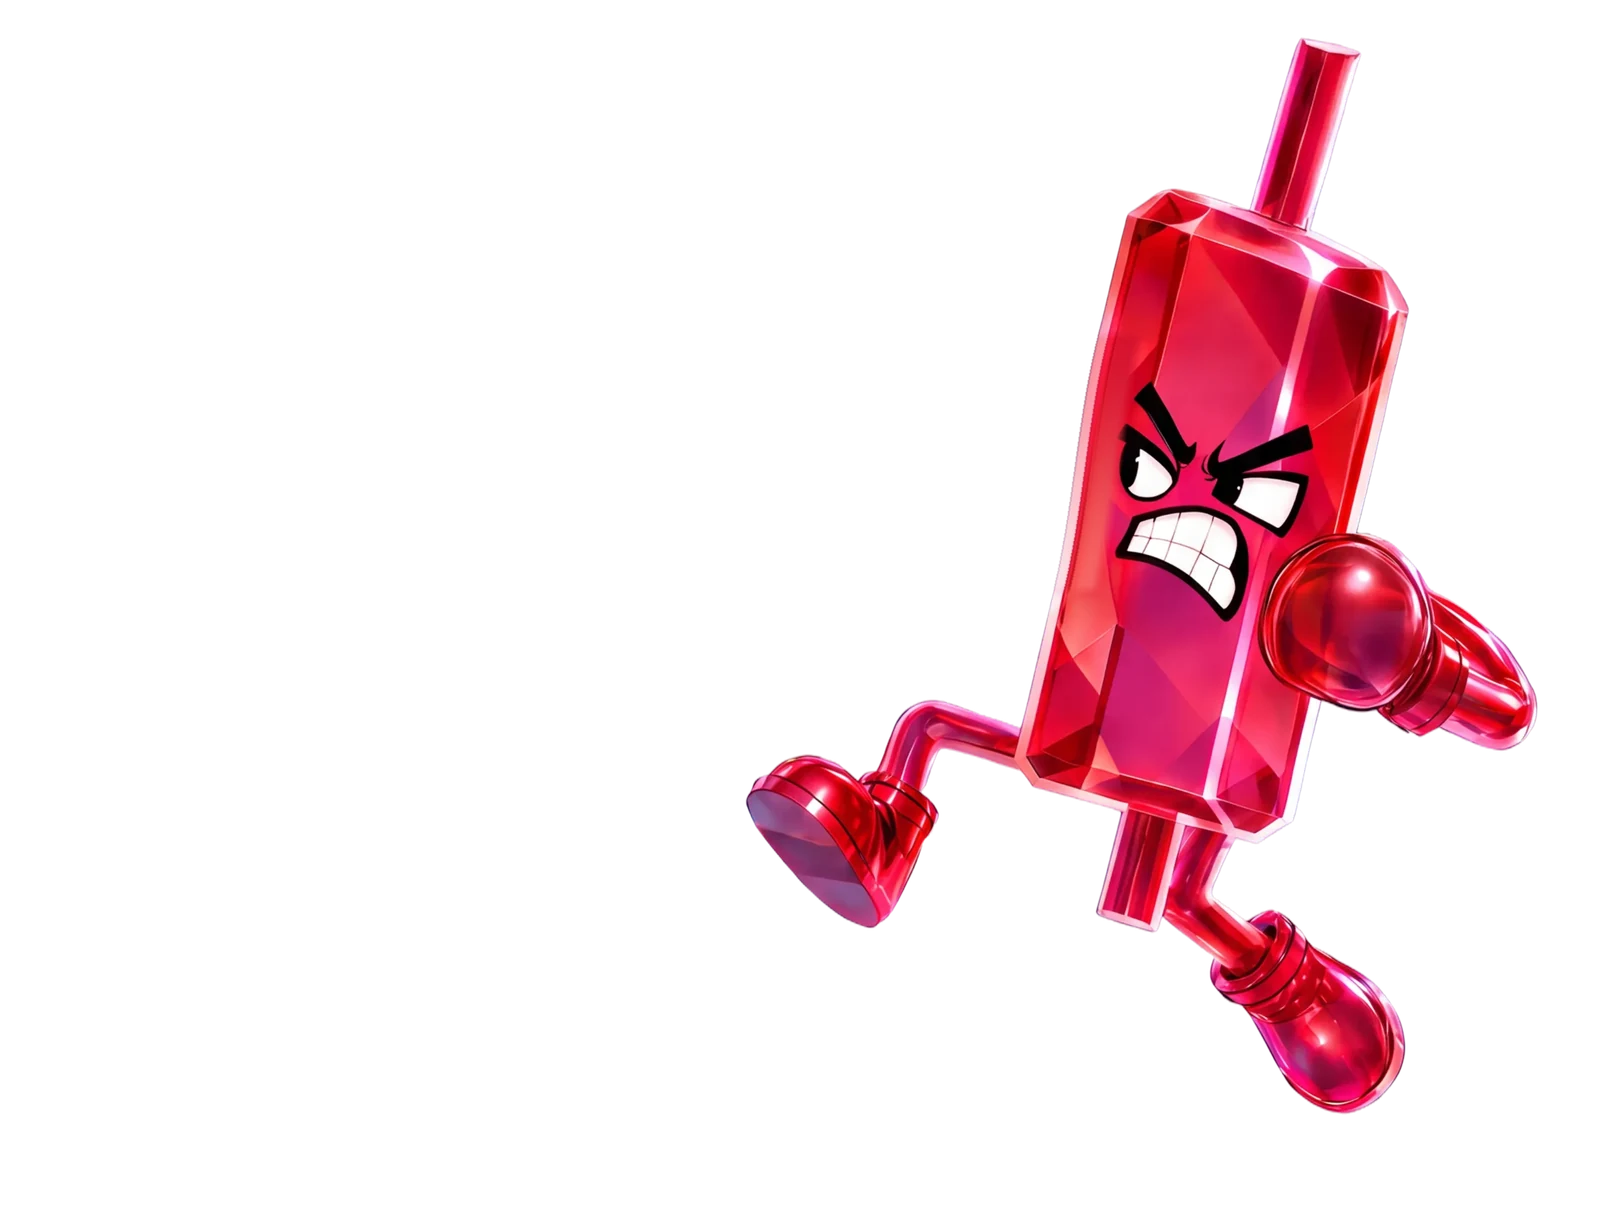
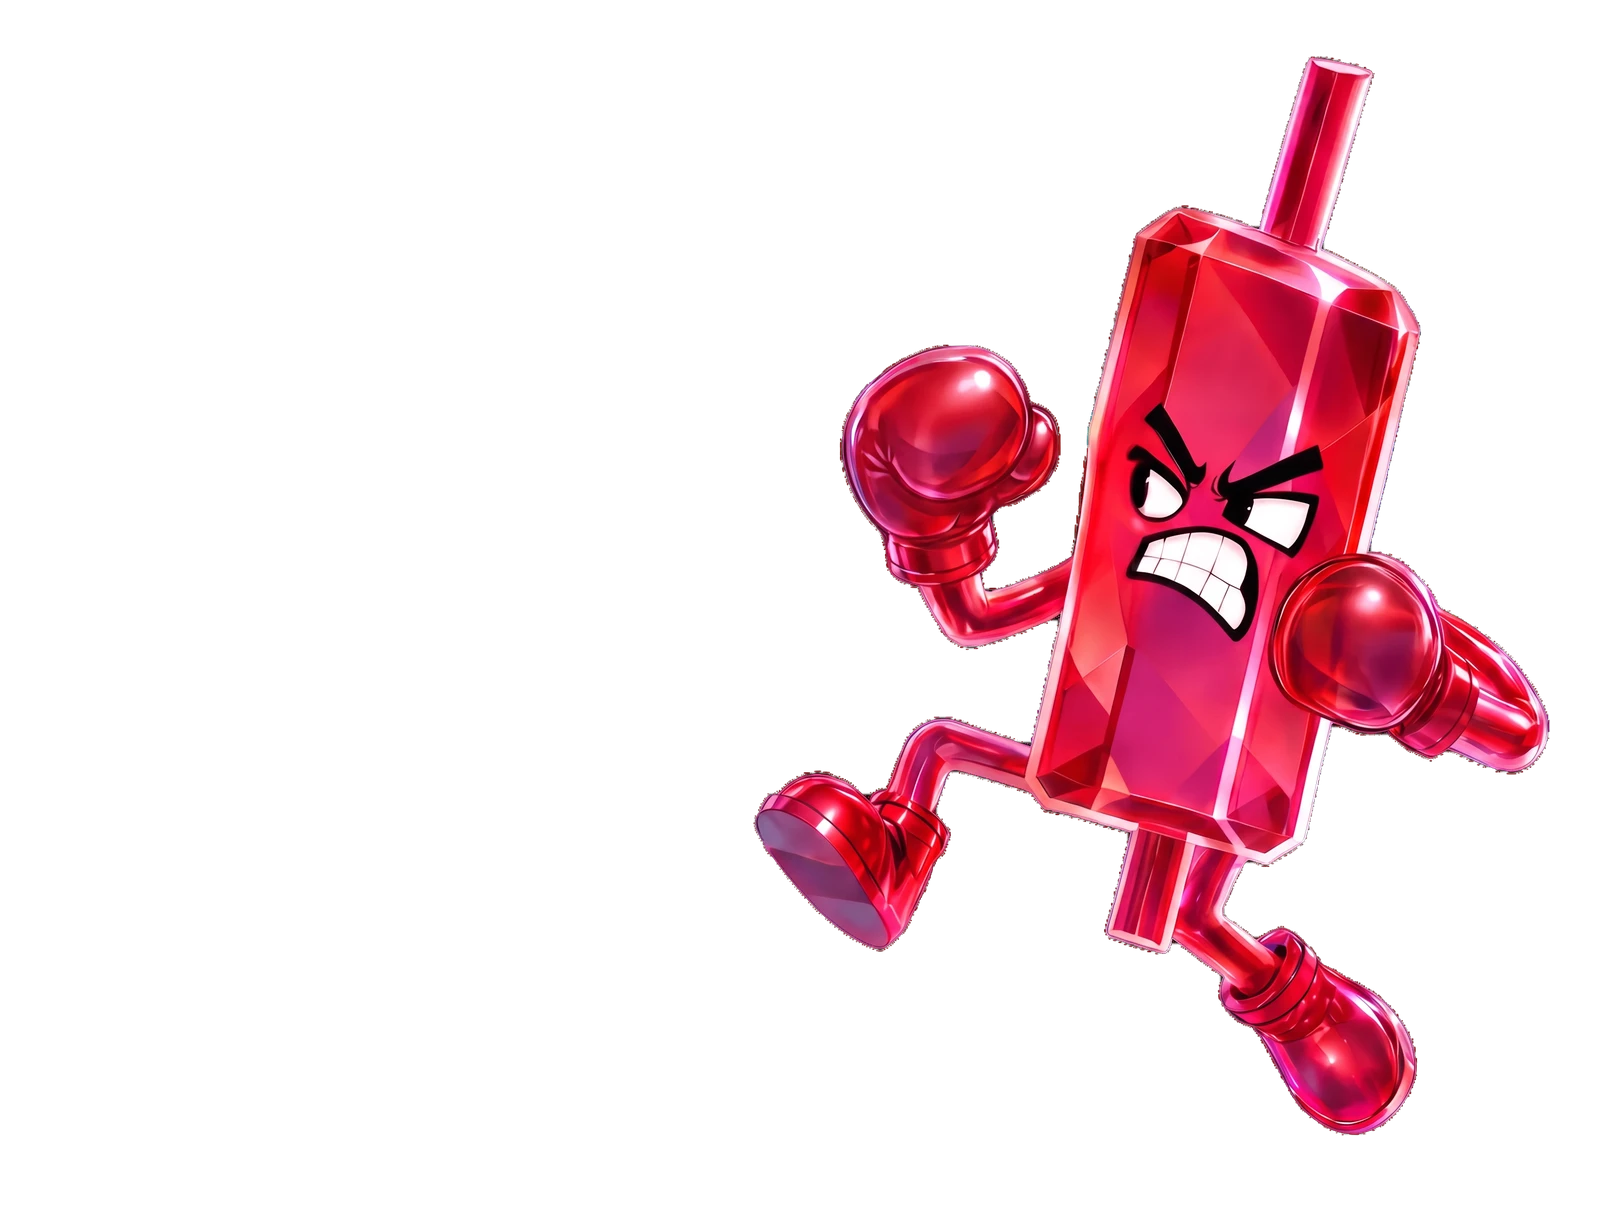
Nový červený panáček v hero, u registrace a v patičce
Claude-Session: https://claude.ai/code/session_017NTkejaEJNNuxiLW1kjkT4

Changed region(s): [[0.4688, 0.0305, 0.9688, 0.944]]

diff --git a/index.html b/index.html
@@ -17,8 +17,8 @@
   <link rel="preload" as="font" type="font/woff2" href="assets/fonts/archivo-latin-standard-normal.woff2" crossorigin>
   <link rel="preload" as="font" type="font/woff2" href="assets/fonts/archivo-latin-ext-standard-normal.woff2" crossorigin>
   <link rel="preload" as="image" href="assets/img/candle-green.webp?v=202610201838">
-  <link rel="preload" as="image" href="assets/img/candle-red.webp?v=202610201838">
-  <link rel="stylesheet" href="assets/css/styles.css?v=202610271750">
+  <link rel="preload" as="image" href="assets/img/candle-red.webp?v=202610271830">
+  <link rel="stylesheet" href="assets/css/styles.css?v=202610271830">
   <script>
     // Hide hero pieces until the intro animation takes over; fail open after 3.5 s.
     (function () {
@@ -86,7 +86,7 @@
           <div class="duo__shadow"></div>
           <div class="duo__bob" id="duoBob">
             <div class="fighter fighter--red" id="exitRed"><div class="fighter__in" id="fRed">
-              <img src="assets/img/candle-red.webp?v=202610201838" alt="" width="1600" height="1215">
+              <img src="assets/img/candle-red.webp?v=202610271830" alt="" width="1600" height="1215">
             </div></div>
             <div class="fighter fighter--green" id="exitGreen"><div class="fighter__in" id="fGreen">
               <img src="assets/img/candle-green.webp?v=202610201838" alt="" width="1600" height="1215">
@@ -366,7 +366,7 @@
     <section class="wave final final--reg" id="registrace" aria-labelledby="wave-h">
       <div class="wrap wave__grid">
         <div class="reg__copy">
-          <img class="final__duo" src="assets/img/candles-duo.webp?v=202610201838" alt="" width="1600" height="1215" loading="lazy">
+          <img class="final__duo" src="assets/img/candles-duo.webp?v=202610271840" alt="" width="1600" height="1215" loading="lazy">
           <h2 id="wave-h" class="h2">Myslíš, že umíš číst graf?</h2>
           <p class="lede">Trh už ukázal svůj příběh. Teď je řada na tobě.</p>
           <ul class="perks perks--chips">
@@ -391,6 +391,7 @@
   </main>
 
   <footer class="foot">
+    <img class="foot__fighter" src="assets/img/candle-red-foot.webp?v=1" alt="" width="310" height="420" loading="lazy">
     <div class="wrap foot__grid">
       <div class="foot__left">
         <span class="foot__brand"><img class="foot__mark" src="assets/img/logo-mark-light.svg?v=6" alt="" width="42" height="55"><img src="assets/img/wordmark-light.svg" alt="Clash of Candles" width="160" height="50"></span>

diff --git a/assets/css/styles.css b/assets/css/styles.css
@@ -2254,3 +2254,12 @@ main .rankwin p { color: inherit; }
 .foot__brand .foot__mark { height: 44px; width: auto; }
 /* new PLAY tile artwork */
 .flow__node--play .play3d { width: 100%; transform: none; filter: drop-shadow(0 12px 12px rgba(4,50,63,.25)); }
+
+/* red fighter jumping in from the top-right corner of the footer */
+.foot { position: relative; overflow: visible; }
+.foot__fighter { position: absolute; right: max(20px, calc((100% - var(--wrap)) / 2)); bottom: calc(100% - 70px); width: clamp(110px, 11vw, 160px); height: auto; z-index: 3; pointer-events: none;
+  transform: rotate(8deg); filter: drop-shadow(0 16px 18px rgba(4,32,45,.35)); }
+@media (prefers-reduced-motion: no-preference) { .foot__fighter { animation: hoverS 3.4s ease-in-out infinite alternate; } }
+@media (max-width: 800px) { .foot__fighter { width: 96px; bottom: calc(100% - 40px); } }
+.foot__fighter { bottom: calc(100% - 16px); transform: rotate(6deg); }
+@media (max-width: 800px) { .foot__fighter { bottom: calc(100% - 10px); } }
